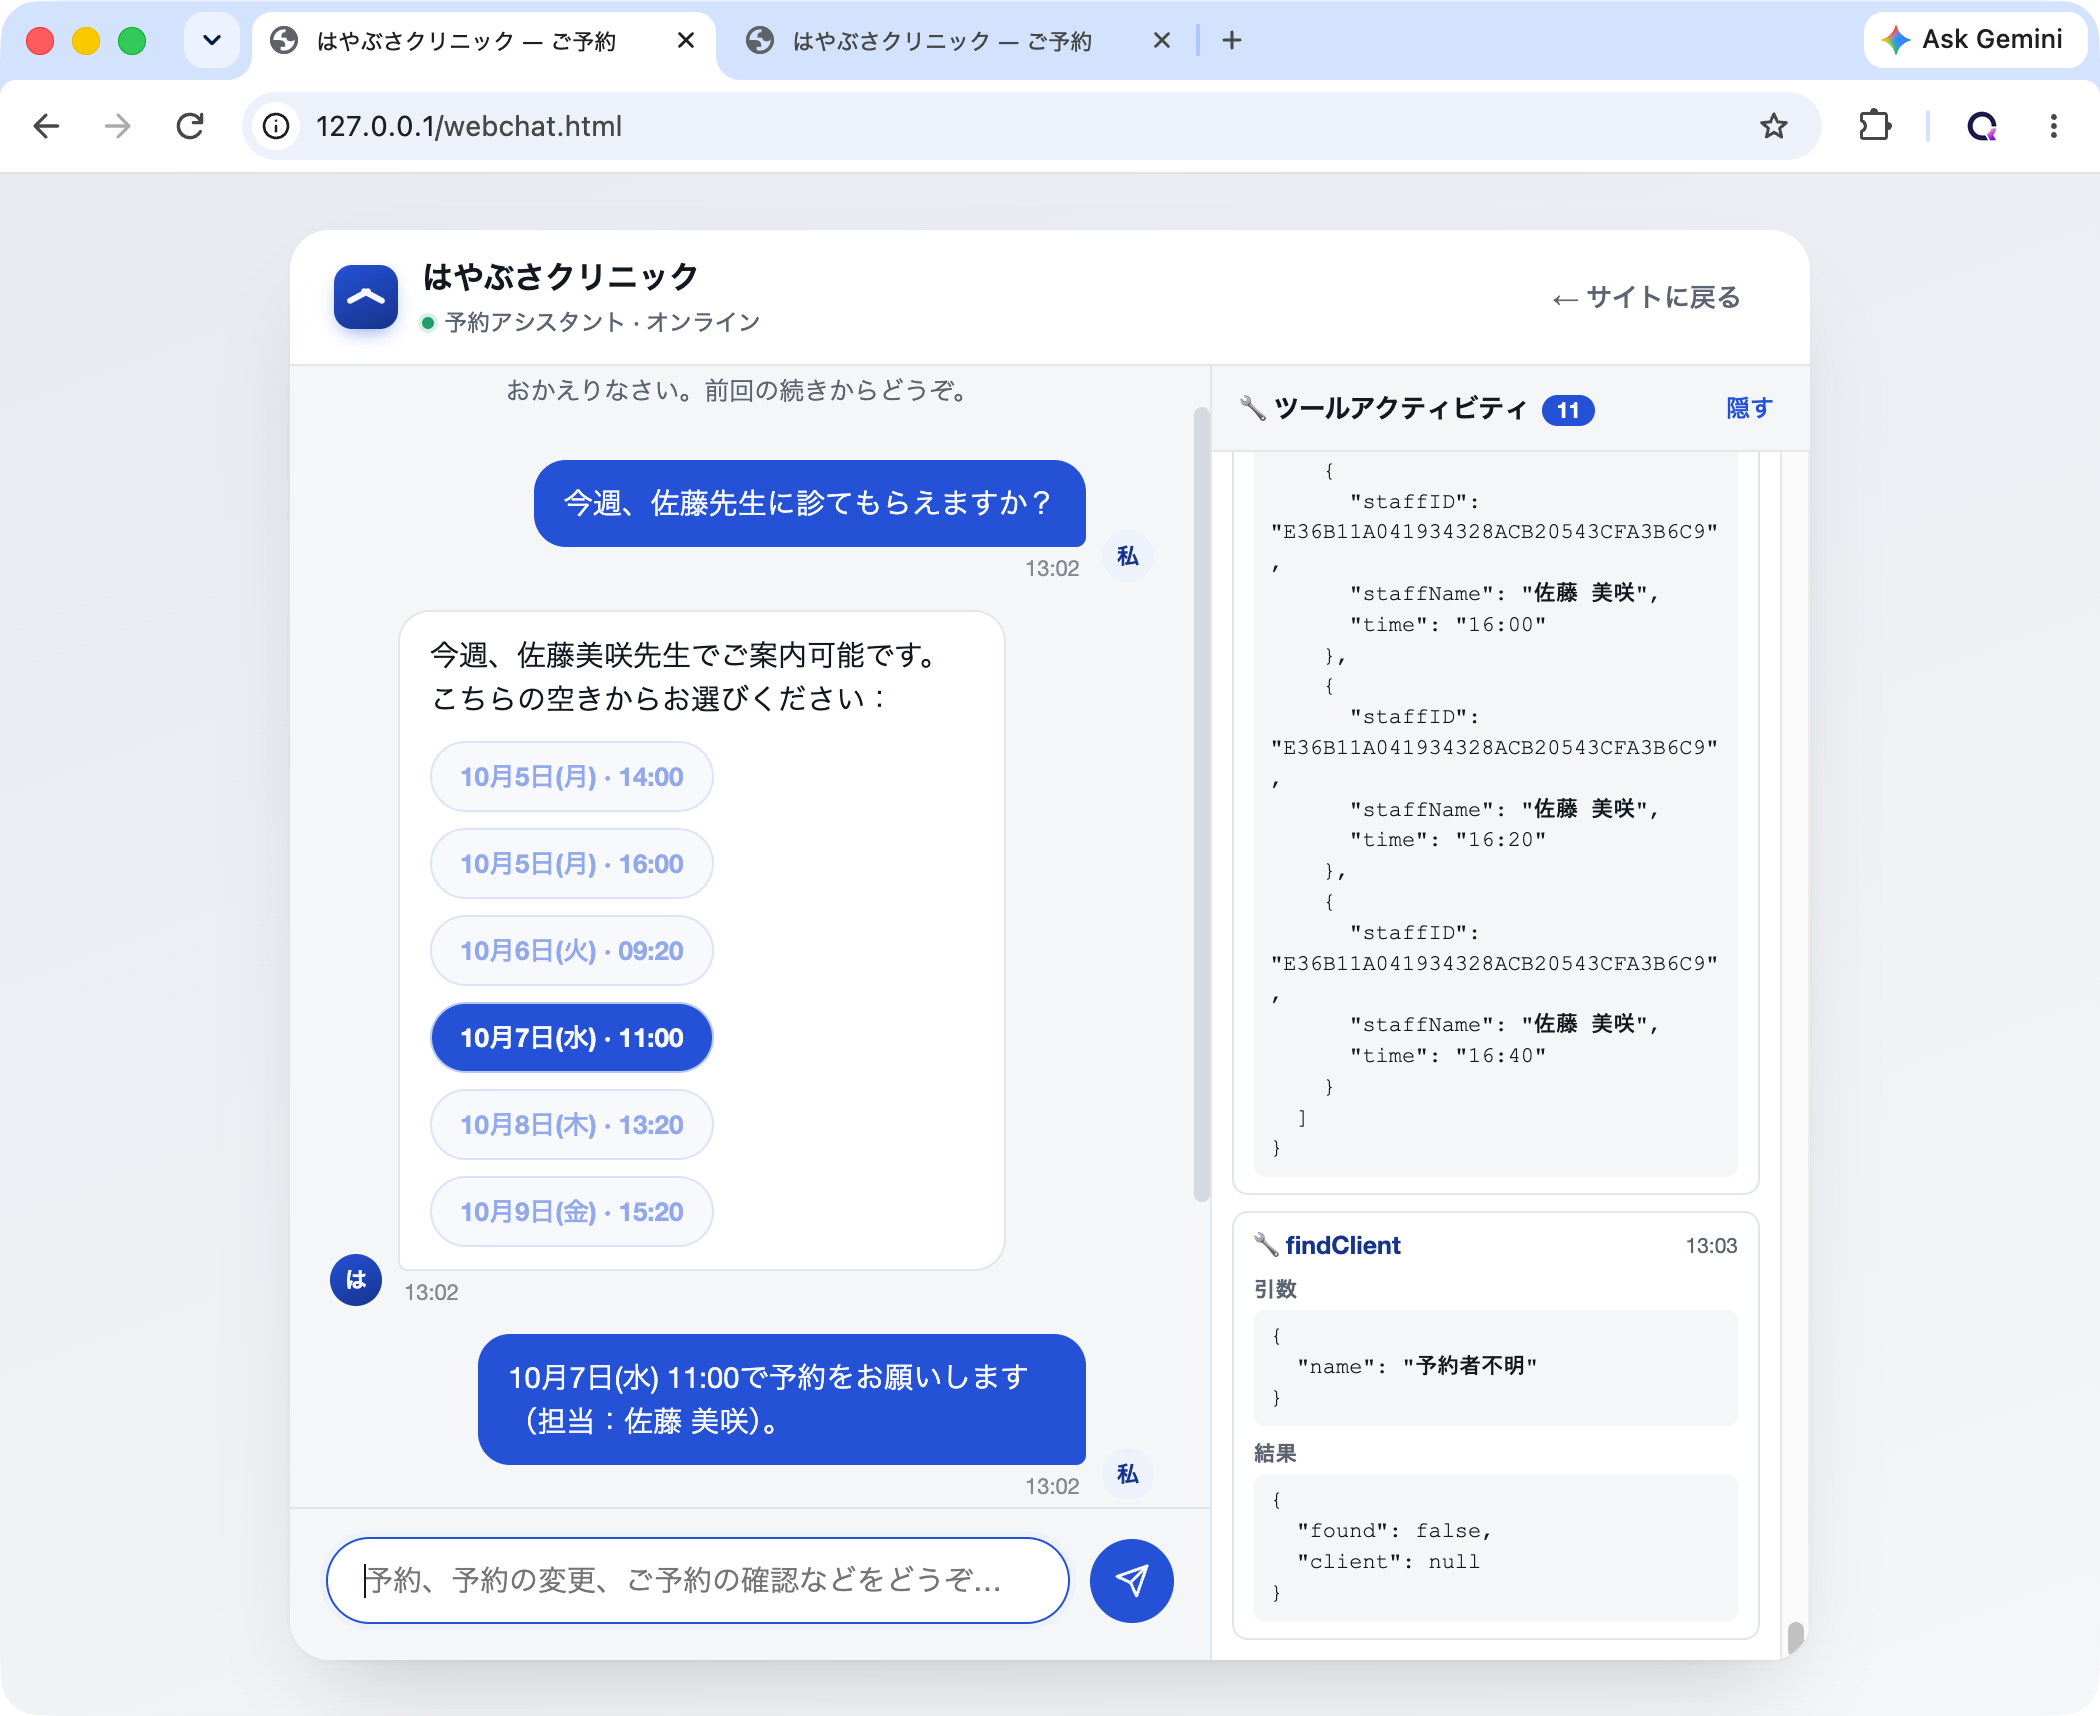
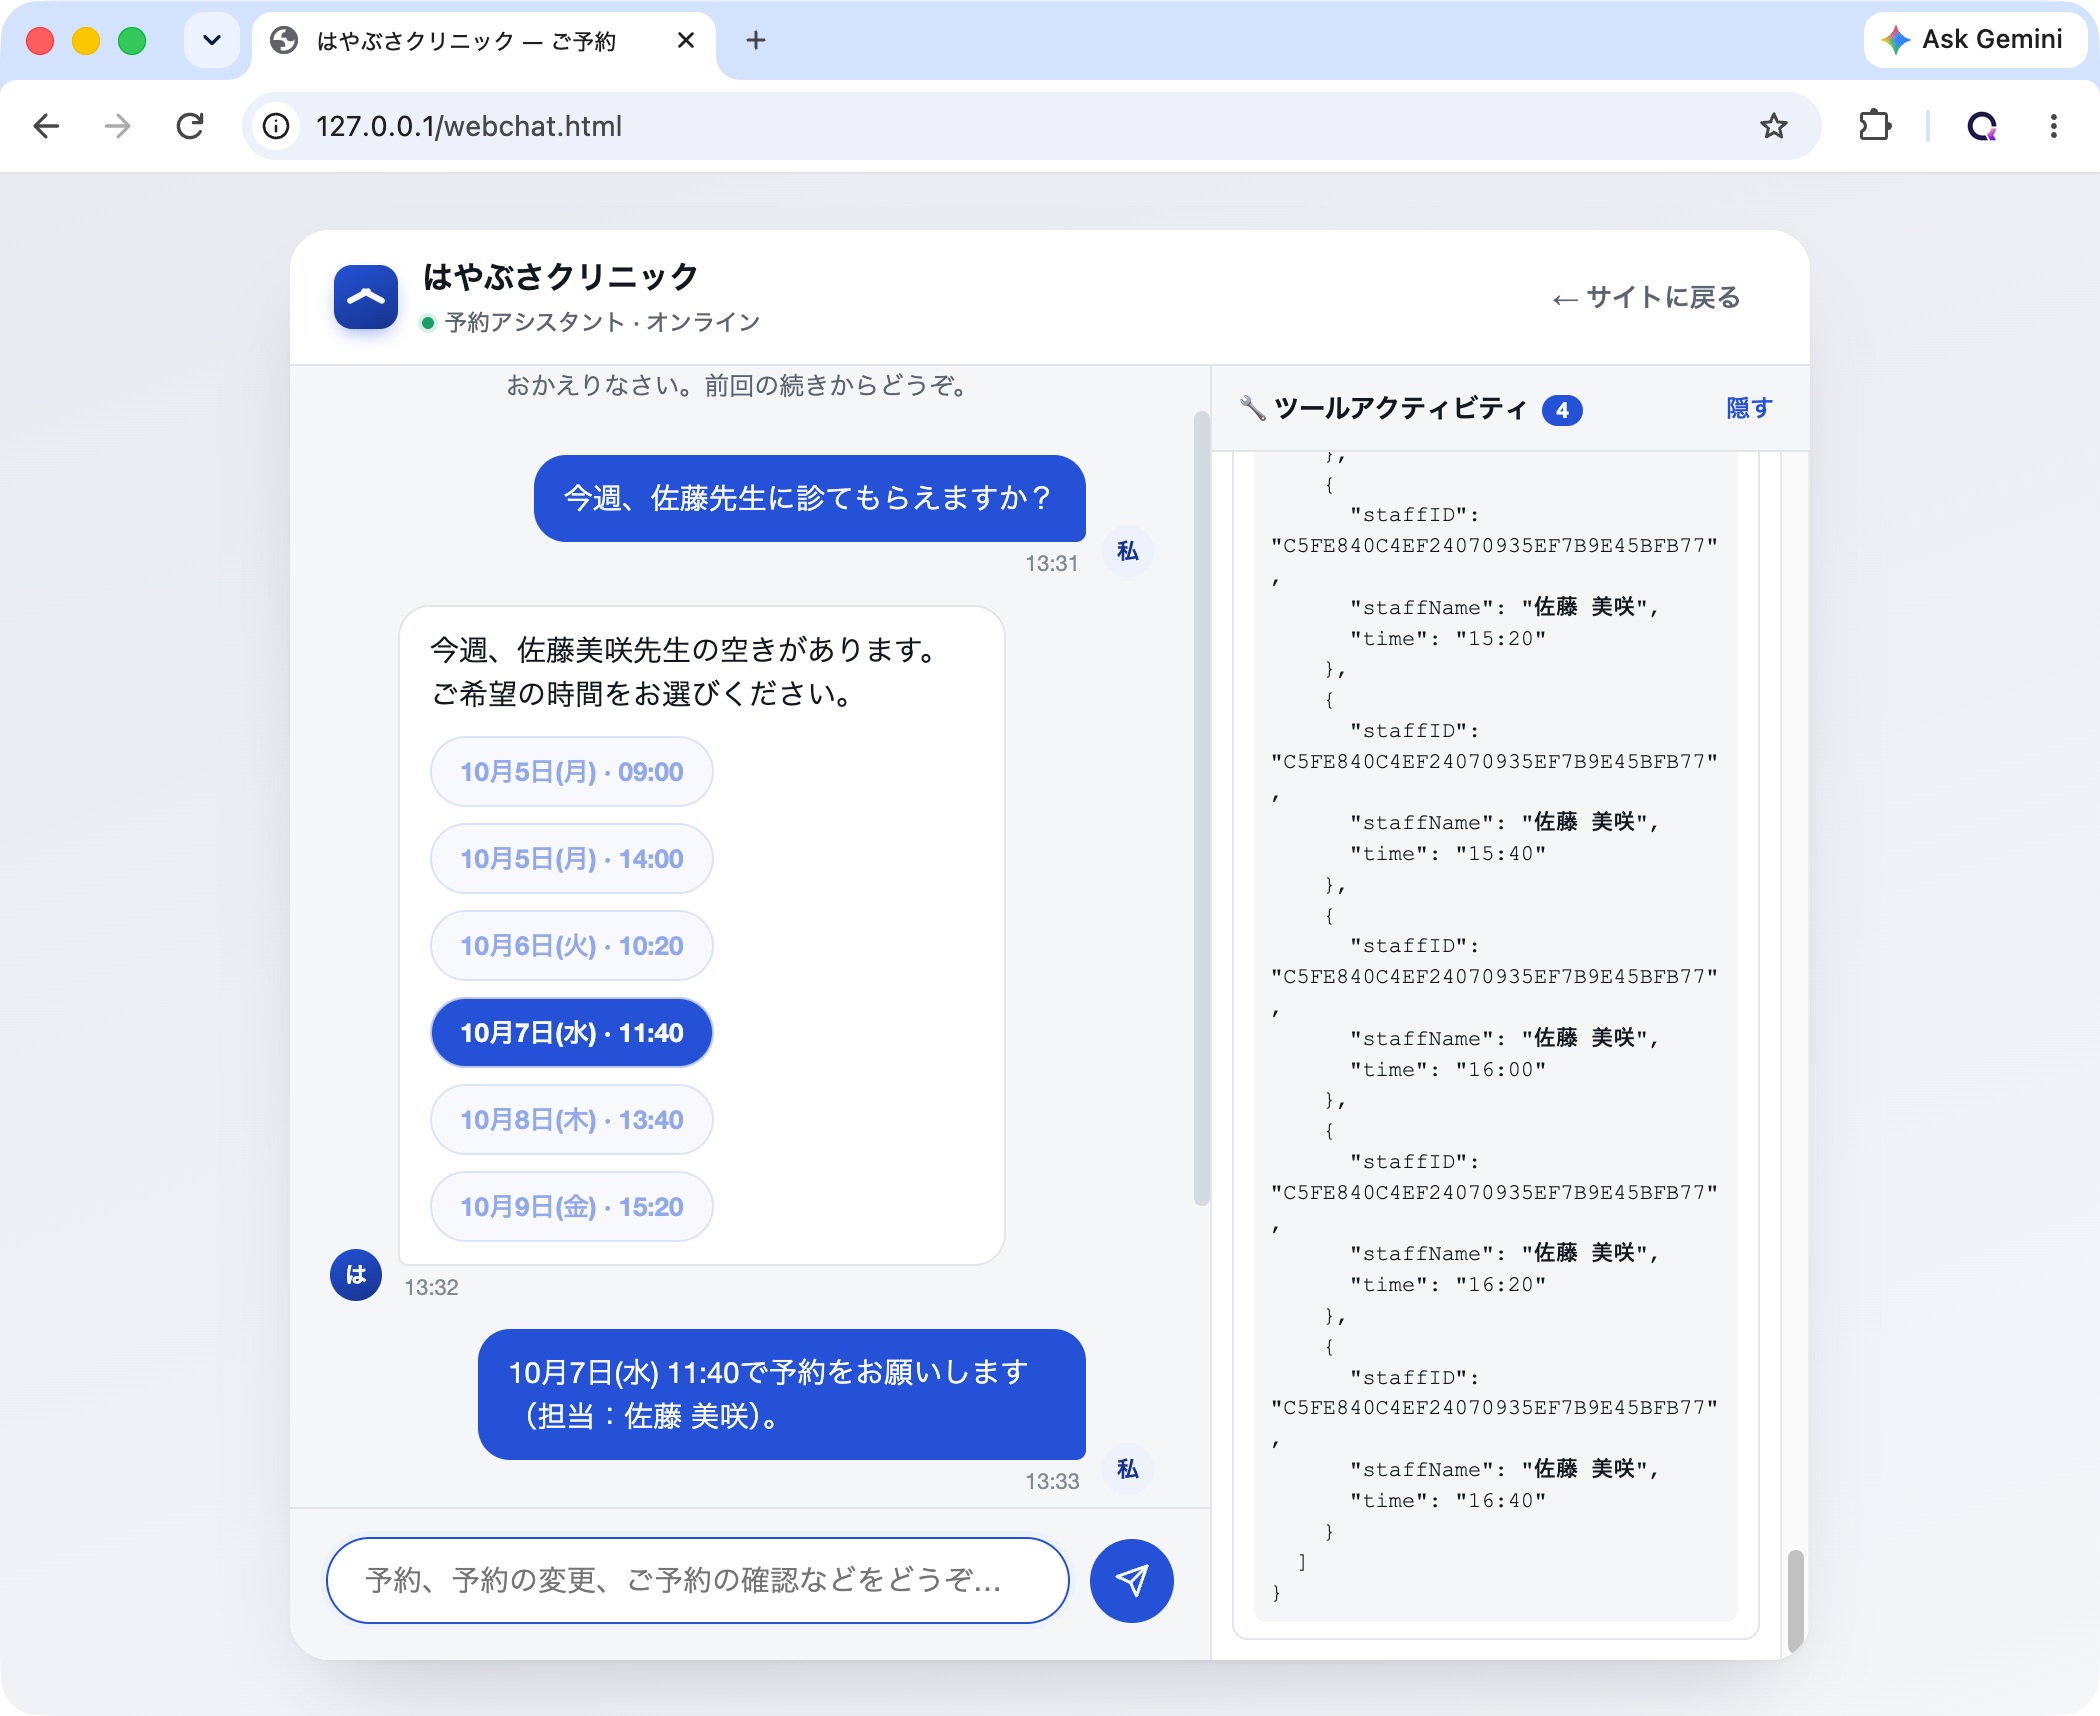
Figures 5-9: use the new Japanese screenshots and align the text with them
Slot 10/7 11:40 and confirmation code APT-4CF6D4 throughout; scene 4 lists
getAppointmentByCode before cancelAppointment as captured; figure 9 shows the
admin-cancelled APT-DEMO02 under the All filter. fig-NN.png stays the English
original, fig-NN-ja.png the replacement.

diff --git a/src/ja.md b/src/ja.md
@@ -277,7 +277,7 @@ getWeekAvailability → {staffID: "<佐藤 美咲のUUID>"}
 
 **ここが見どころ：** 追加の指示なしに、2つのツールが連続して呼び出されます。モデルは、スケジュールを問い合わせる前に、「佐藤先生」を実際のstaffIDに自力で解決しています。
 
-候補の日時はクリックできるボタンとして表示されます。ここでは［10月7日(水) · 11:00］をクリックし、そのまま予約に進みます。
+候補の日時はクリックできるボタンとして表示されます。ここでは［10月7日(水) · 11:40］をクリックし、そのまま予約に進みます。
 
 ![図5：佐藤先生の今週の空き枠のボタンと、空き枠を選んだ後のツールアクティビティパネル](fig-05)
 
@@ -293,8 +293,8 @@ getWeekAvailability → {staffID: "<佐藤 美咲のUUID>"}
 ```text
 findClient → {name: "高橋 結衣", email: "..."}
 ⤷ 一致あり（初期投入済みの患者のclientID）
-createAppointment → {clientID, staffID, date, time: "11:00"}
-⤷ 予約確定、コードAPT-89B558
+createAppointment → {clientID, staffID, date, time: "11:40"}
+⤷ 予約確定、コードAPT-4CF6D4
 ```
 
 **説明のポイント：** 「呼び出しの順序に注目してください。予約する前にまず既存の患者を検索し、初期投入済みの高橋さんのclientIDが見つかったので、新しい患者を作成せずにそのまま予約しています。これはシステムプロンプトに書かれたルールであり、UIが強制しているものではありません。」
@@ -307,12 +307,12 @@ createAppointment → {clientID, staffID, date, time: "11:00"}
 
 **入力する内容：**
 
-> 「予約APT-89B558を確認してもらえますか？」
+> 「予約APT-4CF6D4を確認してもらえますか？」
 
 **実行されるツール：** getAppointmentByCode
 
 ```text
-getAppointmentByCode → {confirmationCode: "APT-89B558"}
+getAppointmentByCode → {confirmationCode: "APT-4CF6D4"}
 ⤷ 予約レコード全体を返却。ユーザーにはUUIDを表示しない
 ```
 
@@ -326,30 +326,32 @@ getAppointmentByCode → {confirmationCode: "APT-89B558"}
 
 > 「やっぱり、その予約をキャンセルしてください。」
 
-**実行されるツール：** cancelAppointment
+**実行されるツール：** getAppointmentByCode、cancelAppointment
 
 ```text
+getAppointmentByCode → {confirmationCode: "APT-4CF6D4"}
+⤷ 予約レコードとappointmentIDを返却
 cancelAppointment → {appointmentID: "..."}
 ⤷ ステータスをキャンセル済みに設定
 ```
 
-**説明のポイント：** 「『その予約』と言っただけで、モデルは2ターン前の正しい予約を引き継いでいます。コードやIDを改めて伝える必要はありません。」
+**説明のポイント：** 「『その予約』と言っただけで、モデルは会話の中から正しい予約を引き継いでいます。コードやIDを改めて伝える必要はありません。モデルは会話に出てきた確認コードでまず予約を照会し、得られたappointmentIDでキャンセルしています。」
 
 **ここが見どころ：** シーン2で予約したまさにその予約で一連の流れが完結し、ユーザーのメッセージに明示的なIDがなくても、複数ターンにわたって記憶が保たれていることを示せます。
 
-![図7：ツールアクティビティパネルに表示されたcancelAppointmentとキャンセルの応答](fig-07)
+![図7：ツールアクティビティパネルに表示されたgetAppointmentByCodeとcancelAppointment、およびキャンセルの応答](fig-07)
 
 #### シーン5：スタッフ側：AIなしで同じビジネスロジックを使う
 
 ネイティブの管理フォーム（APT_Open("admin")）に切り替えて、同じデータをクリニック側から見た画面を示します。検索フィールド、フィルターボタン（今後／過去／すべて／キャンセル済み）、Form.appointmentsにバインドされた予約のリストボックス、そして選択した行の詳細パネルがあります。
 
-- ［キャンセル済み］で絞り込みます。シーン4でキャンセルした高橋結衣さんの予約（APT-89B558）がすでに表示されており、数分前にAIがキャンセルしたものです。同じテーブル、同じステータスフィールドを使っているため、「AIによるキャンセル」の記録を別途照合する必要はありません。
+- ［キャンセル済み］で絞り込みます。シーン4でキャンセルした高橋結衣さんの予約（APT-4CF6D4）がすでに表示されており、数分前にAIがキャンセルしたものです。同じテーブル、同じステータスフィールドを使っているため、「AIによるキャンセル」の記録を別途照合する必要はありません。
 
 ![図8：管理フォーム（フィルター、リストボックス、キャンセル済みの予約を表示した詳細パネル）](fig-08)
 
-- 次に［今後］で絞り込み、今度は伊藤翔太さんの初期投入済みの予約（APT-DEMO02）を選択して（AIが一度も触れていない予約です）、［予約をキャンセル］をクリックします。AdminForm_CancelSelectedはAPT_Tool_CancelAppointment({appointmentID: ...})を直接呼び出します。これはシーン4でAIが高橋さんの予約に対して呼び出したのとまったく同じメソッドです。その後、一覧を再読み込みします。
+- 次に［今後］で絞り込み、今度は伊藤翔太さんの初期投入済みの予約（APT-DEMO02）を選択して（AIが一度も触れていない予約です）、［予約をキャンセル］をクリックします。AdminForm_CancelSelectedはAPT_Tool_CancelAppointment({appointmentID: ...})を直接呼び出します。これはシーン4でAIが高橋さんの予約に対して呼び出したのとまったく同じメソッドです。その後、一覧を再読み込みします。［すべて］に切り替えると、APT-DEMO02がキャンセル済みになっていることを確認できます。
 
-![図9：管理フォーム（フィルター、リストボックス、初期投入済みの今後の予約を表示した詳細パネル）](fig-09)
+![図9：管理フォーム（［すべて］の一覧と、管理フォームからキャンセルした初期投入済みの予約を表示した詳細パネル）](fig-09)
 
 **説明のポイント：** 「この2つ目の経路には、AIがまったく関わっていません。ボタンのクリックで直接呼び出される、まったく同じビジネスメソッドです。APT_Tool_CancelAppointmentの中にどのようなルールがあっても、ここでも自動的に適用されます。」
 
